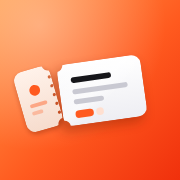
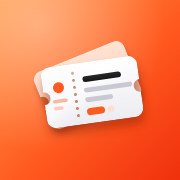
앱 아이콘: 뜯긴 스텁 대신 온전한 티켓 두 장 겹침
- 절취선은 점선 구멍과 좌우 노치로만 표현, 뒤에 살구색 한 장 더 겹쳐 '보관함'
- 광택·그림자·그라데이션 바탕은 유지, maskable 은 글리프 0.78 축소
- sw v28

Changed region(s): [[0.0556, 0.2222, 0.8333, 0.75], [0.5556, 0.5278, 0.6389, 0.5556], [0.75, 0.6389, 0.7778, 0.6667]]

diff --git a/sw.js b/sw.js
@@ -1,5 +1,5 @@
 /* 티켓 보관함 서비스워커 — 앱 셸 캐시(오프라인 지원) */
-const CACHE='tm-shell-v27';
+const CACHE='tm-shell-v28';
 const ASSETS=['./','./index.html','./app.css','./app.js','./data.js','./manifest.webmanifest','./icon-192.png','./icon-512.png','./icon-180.png','./icon-maskable-512.png'];
 
 self.addEventListener('install',e=>{
